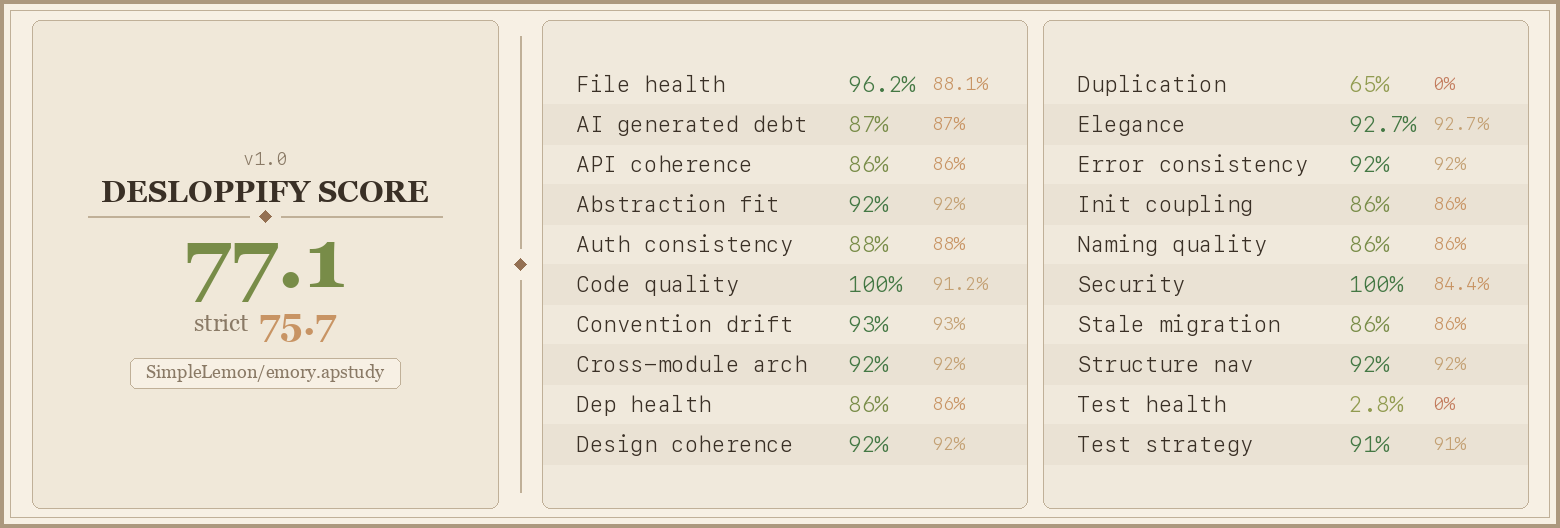
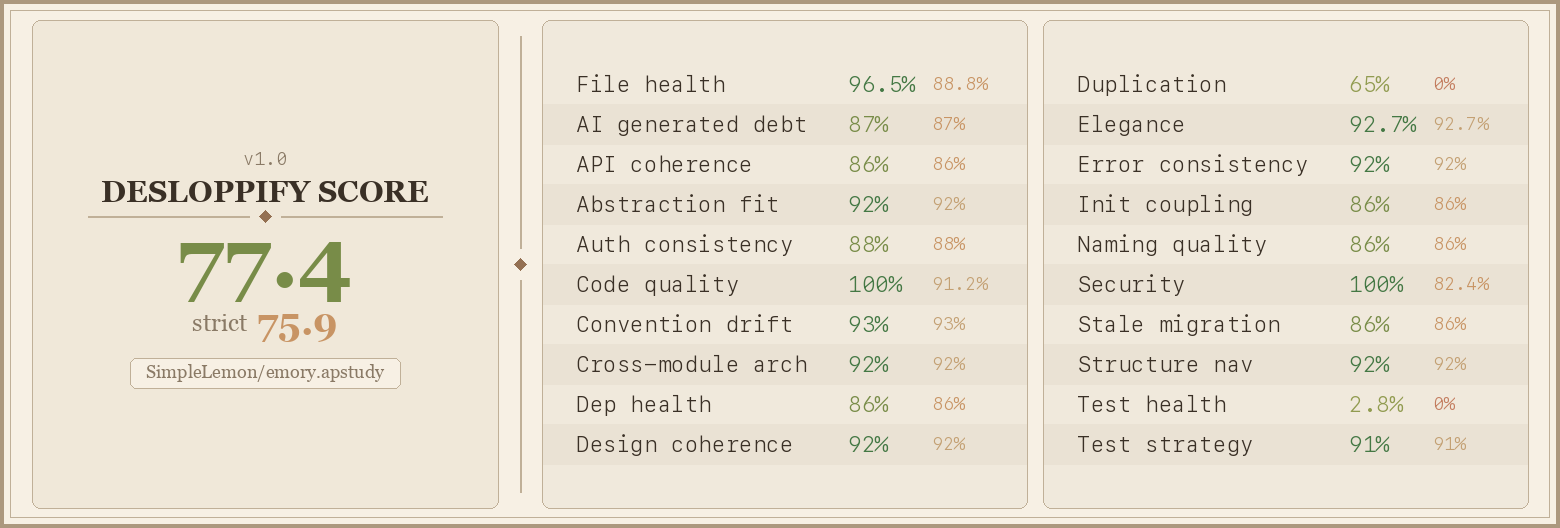
Admin portal fix

Changed region(s): [[0.0923, 0.4545, 0.2462, 0.6364]]

diff --git a/static/js/admin-requests.js b/static/js/admin-requests.js
@@ -3,6 +3,9 @@
   const alertEl = document.getElementById("admin-tracking-alert");
   const testChemButton = document.getElementById("admin-test-chem-150");
   const trackingList = document.getElementById("admin-tracking-list");
+  const refreshSelect = document.getElementById("admin-tracking-refresh");
+  const refreshStorageKey = "adminCourseTrackingRefreshSeconds";
+  let refreshTimer = null;
 
   function setNotice(message, isError = false) {
     if (!alertEl) return;
@@ -12,20 +15,56 @@
   }
 
   async function postJson(url, body) {
-    const response = await fetch(url, {
+    const requestOptions = {
       method: "POST",
-      credentials: "same-origin",
       headers: {
         "Content-Type": "application/json",
         "X-CSRFToken": csrfToken,
       },
       body: JSON.stringify(body || {}),
-    });
+    };
+    requestOptions["credentials"] = "same-origin";
+    const response = await fetch(url, requestOptions);
     const payload = await response.json().catch(() => ({}));
     if (!response.ok) {
       throw new Error(payload.message || payload.error || "Request failed.");
     }
     return payload;
+  }
+
+  function refreshSeconds() {
+    const value = Number(refreshSelect?.value || 5);
+    return [5, 10, 30, 60].includes(value) ? value : 5;
+  }
+
+  function startRefreshTimer() {
+    if (!refreshSelect) return;
+    if (refreshTimer) {
+      window.clearInterval(refreshTimer);
+    }
+    refreshTimer = window.setInterval(() => {
+      window.location.reload();
+    }, refreshSeconds() * 1000);
+  }
+
+  if (refreshSelect) {
+    const saved = Number(window.localStorage.getItem(refreshStorageKey) || 5);
+    if ([5, 10, 30, 60].includes(saved)) {
+      refreshSelect.value = String(saved);
+    }
+    startRefreshTimer();
+    refreshSelect.addEventListener("change", async () => {
+      const seconds = refreshSeconds();
+      window.localStorage.setItem(refreshStorageKey, String(seconds));
+      startRefreshTimer();
+      try {
+        await postJson("/admin/course-tracking/refresh-interval", { seconds });
+        setNotice(`Course tracking refresh set to ${seconds}s.`);
+      } catch (error) {
+        console.error("[Admin Course Tracking] Refresh interval update failed", error);
+        setNotice(error.message || "Unable to update refresh interval.", true);
+      }
+    });
   }
 
   testChemButton?.addEventListener("click", async () => {

diff --git a/static/css/admin.css b/static/css/admin.css
@@ -656,6 +656,45 @@ body.admin-page {
     color: var(--admin-danger);
 }
 
+.admin-tracking-tools {
+    display: flex;
+    flex-wrap: wrap;
+    align-items: flex-end;
+    justify-content: flex-end;
+    gap: 12px;
+}
+
+.admin-select-field {
+    display: flex;
+    flex-direction: column;
+    gap: 6px;
+    min-width: 148px;
+    color: var(--admin-muted);
+    font-size: 12px;
+    font-weight: 700;
+    letter-spacing: 0.08em;
+    text-transform: uppercase;
+}
+
+.admin-select-field select {
+    min-height: 42px;
+    border: 1px solid var(--admin-border);
+    border-radius: 8px;
+    padding: 0 34px 0 12px;
+    background: var(--admin-surface);
+    color: var(--admin-ink);
+    font: inherit;
+    font-size: 14px;
+    font-weight: 700;
+    letter-spacing: 0;
+    text-transform: none;
+}
+
+.admin-select-field select:focus {
+    outline: 2px solid var(--admin-accent-soft);
+    border-color: var(--admin-accent);
+}
+
 .admin-tracking-list {
     display: grid;
     gap: 12px;

diff --git a/templates/admin_requests.html b/templates/admin_requests.html
@@ -43,10 +43,21 @@
                     <h2 id="course-tracking-title" class="admin-title admin-title--small">Course Tracking</h2>
                     <p class="admin-subtitle admin-subtitle--compact">Pause or resume grouped tracking and inspect individual user track rows.</p>
                 </div>
-                <button id="admin-test-chem-150" class="admin-button" type="button">
-                    <span class="material-symbols-outlined" aria-hidden="true">bug_report</span>
-                    Test Fall 2026 CHEM 150
-                </button>
+                <div class="admin-tracking-tools">
+                    <label class="admin-select-field" for="admin-tracking-refresh">
+                        <span>Refresh</span>
+                        <select id="admin-tracking-refresh">
+                            <option value="5" selected>5s (default)</option>
+                            <option value="10">10s</option>
+                            <option value="30">30s</option>
+                            <option value="60">60s</option>
+                        </select>
+                    </label>
+                    <button id="admin-test-chem-150" class="admin-button" type="button">
+                        <span class="material-symbols-outlined" aria-hidden="true">bug_report</span>
+                        Test Fall 2026 CHEM 150
+                    </button>
+                </div>
             </div>
             <input type="hidden" id="admin-csrf-token" name="csrf_token" value="{{ csrf_token() }}" />
             <div id="admin-tracking-alert" class="admin-inline-notice" role="status" hidden></div>

diff --git a/services/discord_audit.py b/services/discord_audit.py
@@ -104,6 +104,27 @@ def _compact_metadata(metadata):
     return _truncate(metadata, MAX_METADATA_CHARS)
 
 
+def _compact_footer_json(metadata):
+    if not isinstance(metadata, dict):
+        return None
+    footer_payload = {
+        key: value
+        for key, value in metadata.items()
+        if value is not None
+        and value != ""
+        and key not in {
+            "course_name",
+            "section_number",
+            "enrollment_type",
+            "seats_open",
+            "user_count",
+        }
+    }
+    if not footer_payload:
+        return None
+    return _truncate(json.dumps(footer_payload, default=str, sort_keys=True), 2048)
+
+
 def format_actor(user=None, *, user_id=None, username=None, system=False):
     if system:
         return "System"
@@ -167,7 +188,30 @@ class DiscordAuditEvent:
     def channel_id(self):
         return _env_channel_id(self.channel)
 
+    def _course_track_checked_embed(self):
+        metadata = self.metadata if isinstance(self.metadata, dict) else {}
+        color_name = self.color if self.color in COLOR_VALUES else "gray"
+        course_name = metadata.get("course_name") or self.target
+        tracking_count = metadata.get("user_count") or metadata.get("track_count") or 0
+        footer_text = _compact_footer_json(metadata)
+        embed = {
+            "title": _truncate(self.target, 256),
+            "description": _truncate(f"{course_name} | {tracking_count} Tracking", 4096),
+            "color": COLOR_VALUES[color_name],
+            "fields": [
+                {"name": "Section #", "value": _truncate(metadata.get("section_number") or "N/A"), "inline": True},
+                {"name": "Enrollment", "value": _truncate(metadata.get("enrollment_type") or "N/A"), "inline": True},
+                {"name": "Seats Open", "value": _truncate(metadata.get("seats_open") if metadata.get("seats_open") is not None else "N/A"), "inline": True},
+            ],
+            "timestamp": self.event_timestamp,
+        }
+        if footer_text:
+            embed["footer"] = {"text": footer_text}
+        return embed
+
     def embed(self):
+        if self.channel == "course_tracks" and self.title == "Automated Course Track Checked":
+            return self._course_track_checked_embed()
         color_name = self.color if self.color in COLOR_VALUES else "gray"
         return {
             "title": _truncate(self.title, 256),

diff --git a/tests/test_admin_security.py b/tests/test_admin_security.py
@@ -230,6 +230,9 @@ class AdminSecurityTestCase(unittest.TestCase):
         html = response.get_data(as_text=True)
         self.assertLess(html.index("Course Tracking"), html.index("University Channel Requests"))
         self.assertIn("CHEM 150", html)
+        self.assertIn('id="admin-tracking-refresh"', html)
+        self.assertIn("5s (default)", html)
+        self.assertIn("60s", html)
 
     def test_admin_export_requires_post_and_csrf(self):
         export_payload = {"user": self.user_doc, "settings": self.settings_doc}
@@ -452,6 +455,40 @@ class AdminSecurityTestCase(unittest.TestCase):
         update_row.assert_called_once()
         self.assertEqual(update_row.call_args.args[1], "track-1")
         self.assertEqual(update_row.call_args.args[2]["enabled"], False)
+
+    def test_course_tracking_refresh_interval_requires_csrf_and_logs(self):
+        with self.app.test_client() as client:
+            self._login(client)
+            token = self._get_csrf_token(
+                client,
+                "/admin/requests",
+                [
+                    patch.object(admin, "list_rows_all", return_value=[]),
+                    patch.object(admin, "_course_tracking_groups", return_value=([], None)),
+                    patch.object(admin, "_theme_preference", return_value=None),
+                    patch.object(admin, "_pending_admin_request_count", return_value=0),
+                ],
+            )
+            with patch.object(admin, "_log_admin_action") as log_action:
+                missing_token = client.post("/admin/course-tracking/refresh-interval", json={"seconds": 10})
+                response = client.post(
+                    "/admin/course-tracking/refresh-interval",
+                    json={"seconds": 10},
+                    headers={"X-CSRFToken": token},
+                )
+                invalid = client.post(
+                    "/admin/course-tracking/refresh-interval",
+                    json={"seconds": 15},
+                    headers={"X-CSRFToken": token},
+                )
+
+        self.assertEqual(missing_token.status_code, 400)
+        self.assertEqual(response.status_code, 200)
+        self.assertEqual(response.get_json()["refresh_interval_seconds"], 10)
+        self.assertEqual(invalid.status_code, 400)
+        log_action.assert_called_once()
+        self.assertEqual(log_action.call_args.args[0], "course_tracking_refresh_interval")
+        self.assertEqual(log_action.call_args.kwargs["metadata"]["refresh_interval_seconds"], 10)
 
     def test_chem_150_diagnostic_is_non_mutating(self):
         with self.app.test_client() as client:

diff --git a/tests/test_discord_audit.py b/tests/test_discord_audit.py
@@ -59,6 +59,37 @@ class DiscordAuditServiceTestCase(unittest.TestCase):
         with patch.dict(os.environ, {}, clear=True):
             self.assertEqual(discord_audit._env_channel_id("chat_deletes"), "1508949346639675543")
 
+    def test_course_track_checked_embed_is_course_first(self):
+        event = DiscordAuditEvent(
+            channel="course_tracks",
+            title="Automated Course Track Checked",
+            actor="System",
+            target="JPN 101",
+            metadata={
+                "course_name": "Elementary Japanese I",
+                "term": "Fall_2026",
+                "crn": "12345",
+                "section_number": "1",
+                "enrollment_type": "Open",
+                "seats_open": 4,
+                "user_count": 3,
+                "request_source": "automated",
+            },
+            color="gray",
+            event_timestamp="2026-05-25T00:00:00Z",
+        )
+
+        embed = event.embed()
+
+        self.assertEqual(embed["title"], "JPN 101")
+        self.assertEqual(embed["description"], "Elementary Japanese I | 3 Tracking")
+        self.assertEqual([field["name"] for field in embed["fields"]], ["Section #", "Enrollment", "Seats Open"])
+        self.assertTrue(all(field["inline"] is True for field in embed["fields"]))
+        self.assertEqual([field["value"] for field in embed["fields"]], ["1", "Open", "4"])
+        self.assertEqual(embed["timestamp"], "2026-05-25T00:00:00Z")
+        self.assertIn('"crn": "12345"', embed["footer"]["text"])
+        self.assertNotIn("2026-05-25T00:00:00Z", embed["footer"]["text"])
+
     def test_server_logs_channel_defaults_to_requested_channel(self):
         with patch.dict(os.environ, {}, clear=True):
             self.assertEqual(discord_audit._env_channel_id("server_logs"), "1509603923433099356")
@@ -409,7 +440,9 @@ class DiscordAuditRouteInstrumentationTestCase(unittest.TestCase):
                     patch.object(admin, "_safe_count_rows", return_value=0), \
                     patch.object(admin, "_chat_count_summary", return_value={}), \
                     patch.object(admin, "_load_section", return_value={}), \
+                    patch.object(admin, "_pending_admin_request_count", return_value=0), \
                     patch.object(admin, "_theme_preference", return_value=None), \
+                    patch.object(admin, "url_for", side_effect=lambda endpoint, **kwargs: f"/{endpoint}"), \
                     patch.object(admin, "render_template", return_value="ok"), \
                     patch.object(admin, "emit_admin_event") as emit_event:
                 response = self._unwrap(admin.admin_detail)("user-1")

diff --git a/blueprints/admin.py b/blueprints/admin.py
@@ -164,6 +164,7 @@ def _admin_event_title(action):
         "manual_course_tracking_run": "Admin Ran Course Tracking Diagnostics",
         "toggle_course_tracking": "Admin Updated Course Tracking",
         "test_chem_150_tracking": "Admin Tested CHEM 150 Tracking",
+        "course_tracking_refresh_interval": "Admin Updated Course Tracking Refresh",
     }
     return labels.get(action, "Admin Action")
 
@@ -1042,6 +1043,26 @@ def admin_course_tracking_track_toggle(track_id):
         color="green" if enabled else "yellow",
     )
     return jsonify({"status": "ok", "track": _serialize_admin_track(updated)})
+
+
+@admin_bp.route("/admin/course-tracking/refresh-interval", methods=["POST"])
+@admin_required
+def admin_course_tracking_refresh_interval():
+    payload = request.get_json(silent=True) or request.form or {}
+    try:
+        seconds = int(payload.get("seconds"))
+    except (TypeError, ValueError):
+        return jsonify({"error": "Invalid refresh interval."}), 400
+    if seconds not in {5, 10, 30, 60}:
+        return jsonify({"error": "Invalid refresh interval."}), 400
+
+    _log_admin_action(
+        "course_tracking_refresh_interval",
+        "course_tracking",
+        metadata={"refresh_interval_seconds": seconds},
+        color="gray",
+    )
+    return jsonify({"status": "ok", "refresh_interval_seconds": seconds})
 
 
 @admin_bp.route("/admin/course-tracking/test-chem-150", methods=["POST"])